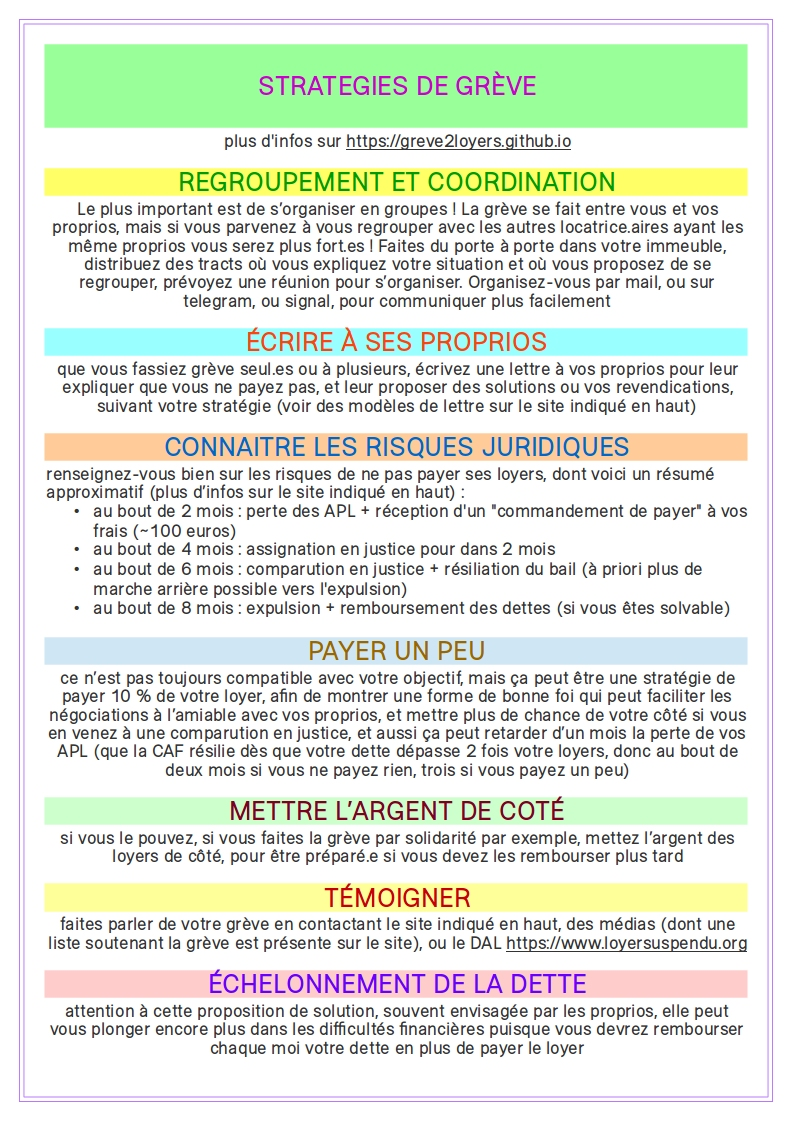
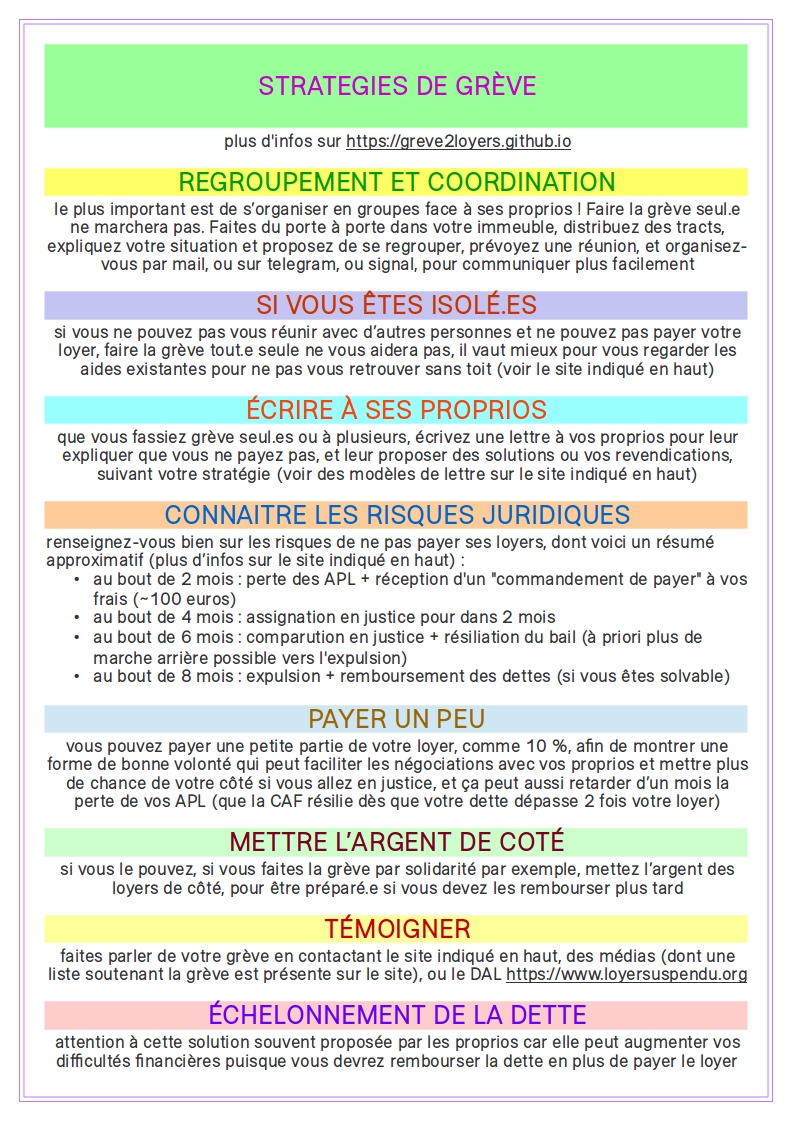
ajout de qq articles en juin

diff --git a/actualites.html b/actualites.html
@@ -32,6 +32,24 @@
 					<label for="show_loyers" class="sticky" id="label_loyer"><p>voir uniquement les articles sur la grève des loyers</p></label>
 					<h2 id="juin20">en juin 2020</h2>
 					<div class="news_container">
+						<a class="breakingnews" href="https://rebellyon.info/Contre-la-construction-d-un-nouveau-22386" target="_blank" rel="noopener noreferrer">
+							<h1 class="news_title">Contre la construction d’un nouveau centre de rétention administrative à Lyon, assemblée publique le samedi 20 juin</h1>
+							<p class="news_content">Le gouvernement a annoncé la construction de trois nouveaux centres de rétention administrative en France, dont un à Lyon, à côté de l’actuel dans la zone de l’aéroport Saint-Exupéry. Le début des travaux était annoncé pour mai 2020, mais le chantier n’a pas encore commencé. Mobilisons-nous contre la construction de cette nouvelle prison, pour que ce CRA ne voie jamais le jour. Ni expulsions, ni prisons (...)</p>
+							<p class="news_date news_info">17/06/2020</p>
+							<p class="news_source news_info">rebellyon</p>
+						</a>
+						<a class="loyers breakingnews" href="https://rebellyon.info/Treve-generale-Appel-a-mobilisations-pour-22387" target="_blank" rel="noopener noreferrer">
+							<h1 class="news_title">Trêve générale : Appel à mobilisations pour une prolongation de la trêve hivernale !</h1>
+							<p class="news_content">A l’abri, été comme hiver : pour une prolongation de la trêve hivernale jusqu’en mars 2021 ! Rassemblons-nous les Mercredis 17 juin et 24 juin et manifestons le samedi 27 juin (...)</p>
+							<p class="news_date news_info">14/06/2020</p>
+							<p class="news_source news_info">rebellyon</p>
+						</a>
+						<a class="loyers breakingnews" href="https://framaforms.org/pour-la-suspension-des-loyers-et-charges-et-la-requisition-des-logements-vides-1591258815" target="_blank" rel="noopener noreferrer">
+							<h1 class="news_title">Pour la suspension des loyers et charges  et la réquisition des logements vides</h1>
+							<p class="news_content">Du 11 Juin au 11 Juillet 2020, le Collectif RIC ARLEQUIN soutenu par plusieurs associations grenobloises va à la rencontre des habitants pour mieux connaître la situation dans le domaine du logement.  Un questionnaire a été rédigé pour connaître les difficultés et obtenir des suspension des loyers et des charges dans l'agglomération grenobloise, ainsi que la réquisition des logements vides suite à l’épidemie du COVID-19. Il est réalisé par des associations et le collectif ARLEQUIN et il n’est pas à l'initiative des bailleurs ou les services sociaux. Nous garantissons la confidentialité des réponses (...)</p>
+							<p class="news_date news_info">11/06/2020</p>
+							<p class="news_source news_info">ric arlequin</p>
+						</a>
 						<a class="breakingnews" href="https://paris-luttes.info/le-16-juin-tous-et-toutes-dans-la-14077?lang=fr" target="_blank" rel="noopener noreferrer">
 							<h1 class="news_title">Le 16 juin tous et toutes dans la rue pour les soignant·e·s</h1>
 							<p class="news_content">Le 16 juin sera une grosse journée de mobilisation contre la casse de l'hôpital public par les libéraux depuis 30 ans. Les soignant·e·s qui ont été en première ligne de la crise sanitaire appellent à une mobilisation sans précédent pour des conditions de travail dignes et des hôpitaux où l’on ne crève pas dans un couloir faute de soins. (...)</p>

diff --git a/donnees.html b/donnees.html
@@ -91,11 +91,23 @@
 
 					<h1 id="documentation">documentation</h1>
 					<div class="news_container">
+						<a class="breakingnews" href="https://radiocayenne.noblogs.org/post/2020/05/13/greve-des-loyers-de-la-commune-de-paris-au-coronavirus" target="_blank" rel="noopener noreferrer">
+							<h1 class="news_title">Grève des loyers, de la Commune de Paris au Coronavirus</h1>
+							<p class="news_content">Qu’est ce qu’une grève des loyers ? A quoi ça sert ? Y en a déjà eu ? Comment on fait concrètement ? Voilà les questions auxquelles tente de répondre cette émission (...)</p>
+							<p class="news_date news_info">13/05/2020</p>
+							<p class="news_source news_info">radio cayenne</p>
+						</a>
 						<a class="breakingnews" href="http://blog.cnt-ait.info/post/2020/04/25/GREVE-DES-LOYERS" target="_blank" rel="noopener noreferrer">
 							<h1 class="news_title">greve des loyers : action directe contre la vie chere et pour un logement digne</h1>
 							<p class="news_content">La CNT-AIT vient d'éditer une brochure sur l'histoire des grèves des loyers, depuis la Commune de paris (la grève des loyers la plus réprimée de l'histoire), jusqu'à la Grève actuellement en cours en lien avec le  Covid 19, en passant par les grèves de loyers insurrectionnelles d'Argentine, du Mexique ou d'Espagne d'avant guerre. Elle contient d'ailleurs des textes inédits en français sur ces trois derniers mouvements. (...)</p>
 							<p class="news_date news_info">25/04/2020</p>
 							<p class="news_source news_info">cnt-ait</p>
+						</a>
+						<a class="breakingnews" href="https://www.fidal.com/fr/actualites/covid-19-quels-impacts-sur-les-baux-dhabitation-22" target="_blank" rel="noopener noreferrer">
+							<h1 class="news_title">Baux d’habitation : Les locataires pourraient-ils invoquer l’imprévision ?</h1>
+							<p class="news_content">L’imprévision est définie par l’article 1195 du Code civil selon lequel : « Si un changement de circonstances imprévisible lors de la conclusion du contrat rend l’exécution excessivement onéreuse pour une partie qui n’avait pas accepté d’en assumer le risque, celle-ci peut demander une renégociation du contrat à son cocontractant. » (...) </p>
+							<p class="news_date news_info">09/04/2020</p>
+							<p class="news_source news_info">fidal</p>
 						</a>
 						<a class="breakingnews" href="https://fr.crimethinc.com/2020/03/30/rent-strike-a-strategic-appraisal-of-rent-strikes-throughout-history-and-today" target="_blank" rel="noopener noreferrer">
 							<h1 class="news_title">Rent Strike ? A Strategic Appraisal of Rent Strikes throughout History and Today</h1>

diff --git a/index.html b/index.html
@@ -132,10 +132,13 @@
 			<div id="articles">
 			<article class="horizontal">
 				<div class="vertical">
-					<p class="date">edited 10/06/2020</p>
+					<p class="date">edited 20/06/2020</p>
 					<h1 id="grevactu">actualité de la greve</h1>
 					<p>
-						<a href="https://www.loyersuspendu.org/je-rejoins-les-locataires-solidaires" target="_blank" rel="noopener noreferrer">signez la pétition du DAL !</a> plus on sera nombreuxses et plus on aura d'impact
+						<a href="https://www.loyersuspendu.org/je-rejoins-les-locataires-solidaires" target="_blank" rel="noopener noreferrer">signez la pétition du DAL !</a> plus on sera nombreuxes et plus on aura d'impact
+					</p>
+					<p>
+						le collectif RIC ARLEQUIN de grenoble organise des tables de mobilisation autour <a href="https://framaforms.org/pour-la-suspension-des-loyers-et-charges-et-la-requisition-des-logements-vides-1591258815" target="_blank" rel="noopener noreferrer">d'un formulaire</a> du 11 juin au 11 juillet pour obtenir l'annulation des loyers et des charges, et cette initiative géniale peut être reprise par tous le monde partout ailleurs !
 					</p>
 					<p>
 						Les habitant.es de l'immeuble de bagnolet continuent la grève qu'ielles ont commencé.e le 26 avril, et grâce à leur lutte la grève des loyers prend de l'ampleur dans la presse mainstream, sur <a href="https://www.francetvinfo.fr/sante/maladie/coronavirus/seine-saint-denis-un-immeuble-de-bagnolet-fait-la-greve-des-loyers_3983219.html" target="_blank" rel="noopener noreferrer">france2</a>, <a href="https://www.lemonde.fr/societe/article/2020/05/22/a-bagnolet-une-greve-des-loyers-revele-la-precarite-de-locataires-touches-par-la-crise-du-coronavirus_6040446_3224.html" target="_blank" rel="noopener noreferrer">le monde</a>, <a href="https://www.rtl.fr/actu/debats-societe/coronavirus-les-habitants-d-un-immeuble-ne-peuvent-plus-payer-leur-loyer-7800550691" target="_blank" rel="noopener noreferrer">rtl</a>, merci à elleux !

diff --git a/guides.html b/guides.html
@@ -131,7 +131,7 @@
 					<h2 id="isolee">vous êtes isolé.es</h2>
 					<p>si vous êtes complètement isolé.es et ne parvenez pas à vous regroupez avec d'autres personnes chez les même proprios, avez-vous des chances de ne pas vous faire expulser ? Et si vous êtes dans cette situation et que vous envisagez de faire la grève par soutiens, est-ce que c'est utile ?</p>
 					<p><b>VOUS NE POUVEZ NI PAYER VOTRE LOYER NI VOUS RÉUNIR</b></p>
-					<p>Oui, vous avez des chances de ne pas vous faire expulser ! Mais vous ne faites pas un grand poids face à vos proprios et à la loi, donc faire la grève touste seul.e n'a pas beaucoup de sens. Vos chances résident plus dans les aides financières et juridiques habituelles, vous pouvez contacter les associations d'aides telles que le DAL, les ADIL, le FSL, la CCAPEX, tout ça est expliqué plus bas dans <a href="#ressources">les ressources</a>, et connaître les étapes juridiques d'un impayé de loyer, comme décrit dans <a href="#juridique">le guide juridique</a> plus bas aussi</p>
+					<p>Oui, vous avez des chances de ne pas vous faire expulser ! Mais vous ne faites pas un grand poids face à vos proprios et à la loi, donc faire la grève tout.e seul.e n'a pas beaucoup de sens. Vos chances résident plus dans les aides financières et juridiques habituelles, vous pouvez contacter les associations d'aides telles que le DAL, les ADIL, le FSL, la CCAPEX, tout ça est expliqué plus bas dans <a href="#ressources">les ressources</a>, et connaître les étapes juridiques d'un impayé de loyer, comme décrit dans <a href="#juridique">le guide juridique</a> plus bas aussi</p>
 					<p><b>VOUS NE POUVEZ PAS VOUS RÉUNIR MAIS SOUHAITEZ SOUTENIR LA GRÈVE</b></p>
 					<p>En faisant la grève seul.e vous n'avez pas beaucoup de poids, mais ce n'est pas une action inutile non plus, pour trois raisons :</p>
 					<ul>
